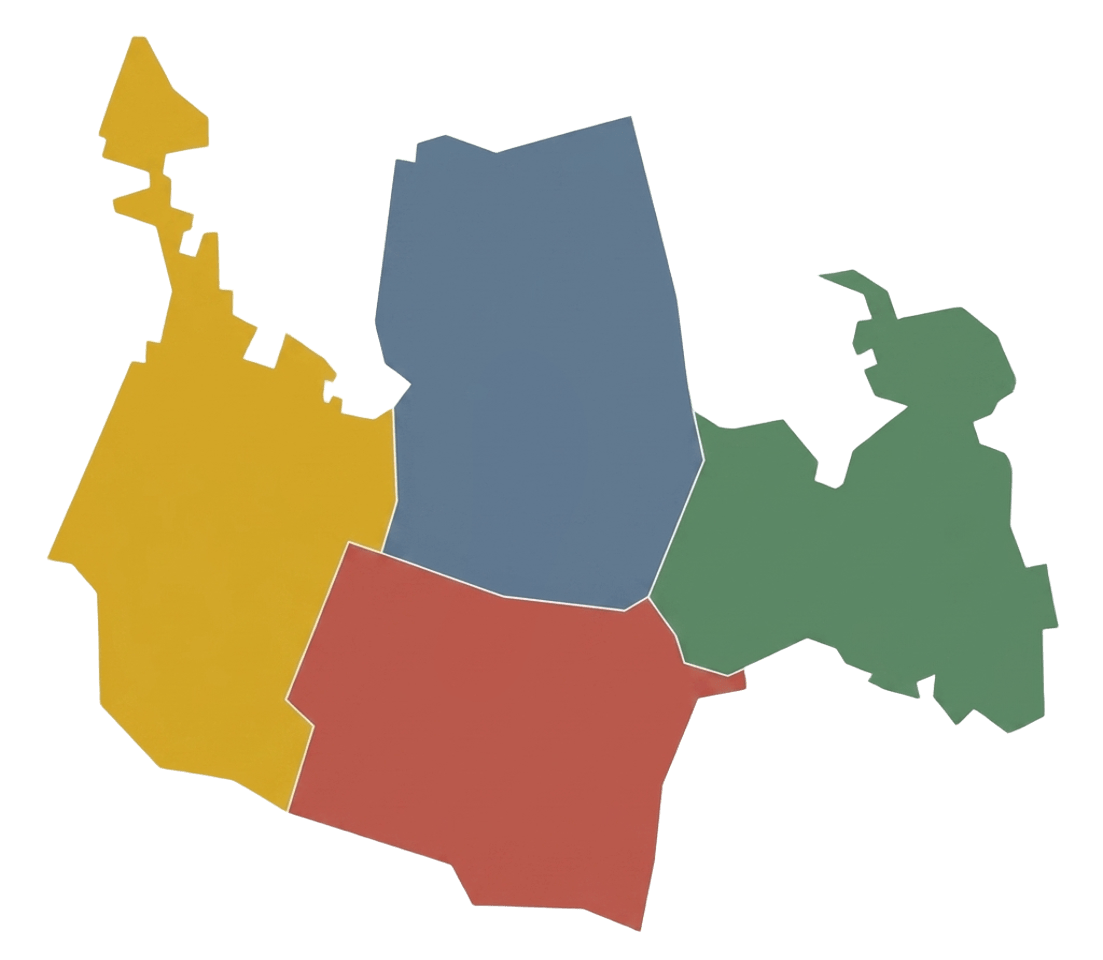
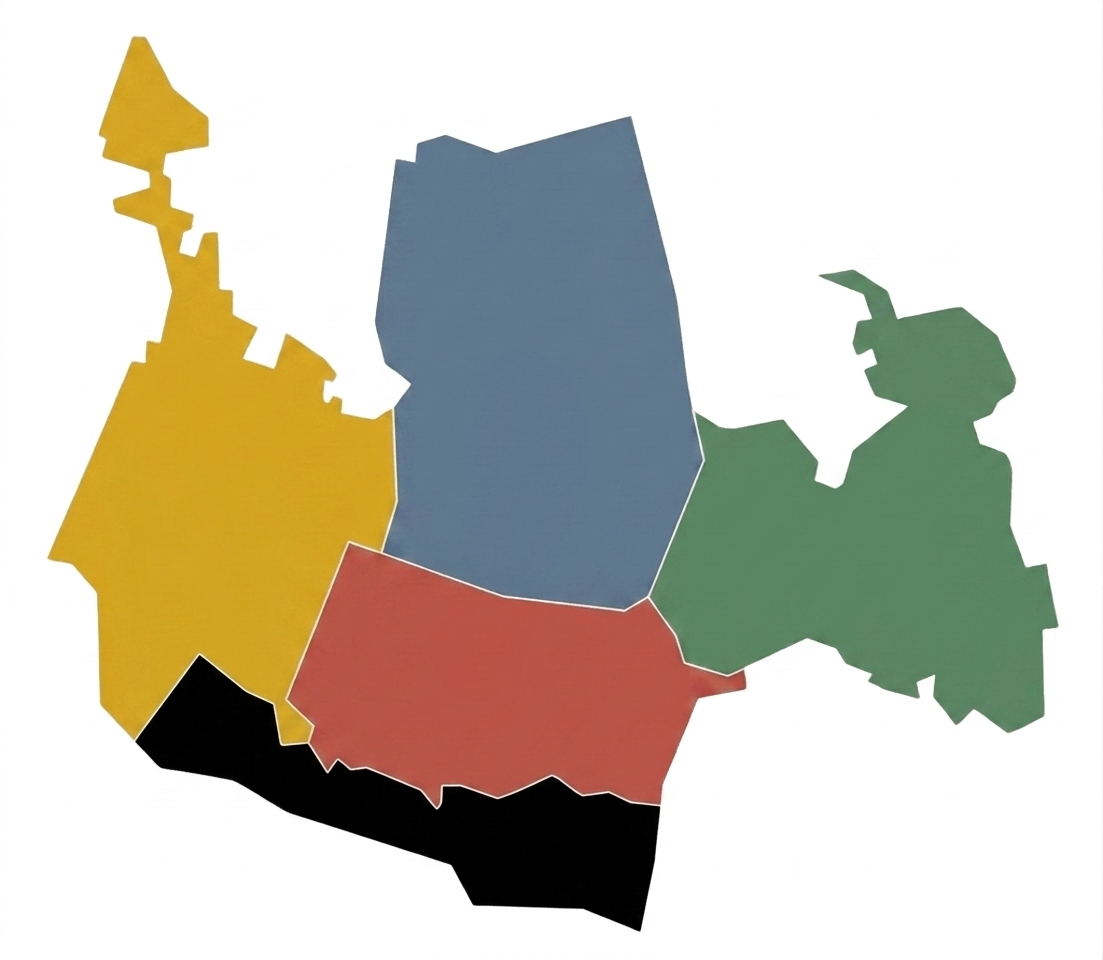
feat(map): 東部を仙川に改め、南部に多摩川エリアを切り出す (#52)
エリア図（public/img/chofu_map.png）を5色に塗り分けたものへ差し替え、
輪郭をそこから取り直した。path を手で継ぎ足すのをやめ、元絵 → trace-areas.py
→ seal-arms.mjs という一本道にしてある。

- `sengawa` つつじヶ丘・仙川（旧・東部の tamagawa）。形は据え置き、
  スポットは実篤公園・武者小路実篤記念館
- `tamagawa` 多摩川。chofu と airport の南側を切り出した市域南端の細長い一本道。
  スポットは郷土博物館のまま（多摩川流域にあるので id ごと引き継げる）
- `chofu` / `airport` は南部を落とした形へ。size は据え置き（プレイ面積は
  path の面積ではなく size² で決まるので、区割りを変えても広さは変わらない）

細長い多摩川で効いた副作用をふたつ潰した:
- ロケ地名が重心の 22px 上に出ると隣のエリアへはみ出すので、
  ずらした先が輪郭の外なら重心へ戻す（geo.js の insidePath を追加）
- 棄却サンプリングの前提「外接矩形の 47〜83%」が 33% まで下がるので注記を更新

テストは全マップに広げた。5エリアの並び・南北関係、重心を走査線で独立に検算、
全マップで 14 匹＋餌を回して壁の外へ出ないこと。

Changed region(s): [[0.1233, 0.6875, 0.6165, 0.9688]]

diff --git a/src/data.js b/src/data.js
@@ -102,13 +102,16 @@ export const SHARKS = [
 ];
 
 // path — ロケ地選択画面のクリック領域であり、ゲーム中のプレイエリアの外周そのもの。
-// viewBox は 0 0 1103 960 で、public/img/chofu_map.png（元の手描きエリア図。表示には使わず
-// 原本として置いてある）を色ごとに輪郭抽出し、`scripts/seal-arms.mjs` で
-// 細すぎる腕（サメが通れない幅の突起）を落としたもの。原本の path はそのスクリプト内にある。
-// 描き直すときは元絵を差し替えて輪郭を取り直し、同じスクリプトを通す。
+// viewBox は 0 0 1103 960 で、public/img/chofu_map.png（5エリアを色で塗り分けたエリア図。
+// 表示には使わず原本として置いてある）を `scripts/trace-areas.py` で色ごとに輪郭抽出し、
+// `scripts/seal-arms.mjs` で細すぎる腕（サメが通れない幅の突起）を落としたもの。
+// 抽出したままの path は seal-arms.mjs の ORIGINAL にある。
+// 描き直すときは元絵を差し替えて、この2本を順に通す。
 //
 // size は「一辺」ではなく実効プレイ面積の平方根。ゲーム側が path の面積が size² になるよう
-// 拡大するので、形を差し替えても遊べる広さは変わらない。label は名前を置く位置(%)。
+// 拡大するので、形を差し替えても遊べる広さは変わらない —— #52 で南部を切り出しても
+// 調布駅・布田と調布飛行場の size を据え置いてあるのはそのため。
+// label は名前を置く位置(%)。今は重心（geo.js）から求めているので参照されていない。
 //
 // spot — そのエリアを解放する現地スポット（未解放のエリアだけが持つ意味を持つ）。
 // 実在の座標・解説文は UPoC_Samether.io/data/stages.master.json から。解放済みの調布にも
@@ -125,8 +128,8 @@ export const MAPS = [
     name: '調布駅・布田',
     en: 'CHOFU STATION',
     unlocked: true,
-    label: { x: 48, y: 76 },
-    path: 'M352 545l33 7,118 45,108 12,15 0,13 -7,15 2,22 29,9 28,40 15,0 18,-27 9,-33 81,-8 81,-13 61,-16 3,-42 -18,-107 -2,-11 -7,-20 -37,-157 -50,-1 -14,22 -76,-22 -20,-2 -13,53 -136,9 -9z',
+    label: { x: 45, y: 71 },
+    path: 'M354 547l154 53,109 13,25 -9,10 2,20 25,11 32,31 11,4 7,-4 13,-20 7,-35 96,-24 4,-24 -11,-29 1,-30 -18,-47 20,-48 -11,-15 0,-4 8,-11 1,-57 -25,-49 -8,-9 -14,5 -17,-22 -22,-2 -17,54 -137,5 -2z',
     color: '#c0544c',
     size: 4200,
     water: '#2a7b7c',
@@ -150,8 +153,8 @@ export const MAPS = [
     name: '深大寺',
     en: 'JINDAIJI',
     unlocked: false,
-    label: { x: 49, y: 42 },
-    path: 'M620 117l15 3,31 122,15 64,15 129,7 11,-5 33,-50 118,-26 11,-116 -10,-101 -35,-14 -9,-4 -7,0 -18,9 -17,2 -22,-4 -83,13 -24,-26 -24,-7 -27,0 -28,20 -141,17 -4,9 -18,20 -8,50 17,13 0,116 -31z',
+    label: { x: 49, y: 38 },
+    path: 'M617 120l14 6,6 29,9 21,31 134,15 121,9 22,-5 26,-46 112,-24 15,-125 -11,-105 -39,-7 -11,13 -42,-6 -94,17 -24,-26 -22,-9 -33,18 -160,17 -7,11 -21,16 -5,59 18,116 -33z',
     color: '#6c88ad',
     size: 4600,
     water: '#26696f',
@@ -175,12 +178,12 @@ export const MAPS = [
     name: '多摩川',
     en: 'TAMAGAWA',
     unlocked: false,
-    label: { x: 84, y: 59 },
-    path: 'M872 282l9 2,10 9,9 24,46 -11,20 2,35 31,13 28,2 24,-41 35,8 18,20 5,7 10,2 70,13 33,4 3,18 0,5 15,6 42,-4 8,-11 3,0 85,-31 16,-9 -1,-26 -21,-22 10,-22 -23,-2 -20,-11 4,-4 13,-20 0,-20 -8,-7 -14,-22 -8,-15 -18,-20 -7,-70 31,-22 4,-39 -17,-9 -29,-22 -30,0 -18,9 -9,44 -112,-5 -23,3 -14,37 3,33 -9,15 2,31 37,-2 22,22 7,6 -3,7 -32,54 -42,-34 -17,-5 -20,9 -14,-4 -6,-14 0,-4 -7,2 -21,15 -7,-6 -26,7 -7z',
-    color: '#4e8a5f',
-    size: 5000,
+    label: { x: 38, y: 84 },
+    path: 'M198 661l9 0,35 31,29 17,6 33,5 5,24 -2,22 30,7 -9,8 0,7 7,20 -2,17 6,31 14,17 19,11 -9,3 -11,17 0,35 11,42 -21,15 0,24 19,29 -4,19 9,24 2,3 4,-2 35,-14 77,-15 4,-42 -19,-109 -3,-29 -43,-155 -48,-57 -34,-71 -11,-22 -23,0 -7,55 -75z',
+    color: '#8e6ba8',
+    size: 4400,
     water: '#2f7f86',
-    blurb: '広い河川敷と速い流れ。マップ最大、そして最速。',
+    blurb: '市域の南端をなぞる細長い流れ。逃げ場が横にない、マップ最長の一本道。',
     lore:
       '多摩川の河川敷は調布市花火大会の舞台。市名「調布」は、' +
       'この流域で織られた布を朝廷へ「調」として納めたことに由来すると伝わる。',
@@ -201,8 +204,8 @@ export const MAPS = [
     name: '調布飛行場',
     en: 'AIRFIELD',
     unlocked: false,
-    label: { x: 20, y: 52 },
-    path: 'M205 238l15 4,2 44,11 5,1 21,19 12,2 15,-8 15,2 5,24 8,9 -26,20 0,28 22,-2 35,13 2,6 13,38 2,9 9,4 81,-13 42,-15 4,-22 -6,-60 151,0 5,24 26,0 13,-21 64,-14 4,-43 -26,-69 -11,-15 -11,-52 -59,-3 -108,-24 -28,-15 -2,-5 -9,5 -24,72 -167,13 -4,5 -16,15 -8,9 -40,-5 -22,1 -18,8 -4,20 4,4 -13,5 -2z',
+    label: { x: 20, y: 53 },
+    path: 'M205 251l11 7,2 30,9 5,4 20,20 15,2 7,-11 21,3 5,28 8,11 -24,15 -2,27 22,2 7,-7 26,7 7,17 11,40 4,7 11,2 75,-11 35,-11 8,-20 -9,-5 3,-61 153,-13 5,-26 -11,-48 -38,-57 75,-9 4,-9 -4,-20 -20,-4 -9,-2 -105,-25 -30,-15 -5,-4 -9,76 -182,14 -4,8 -16,13 -10,7 -35,-4 -27,4 -17,9 -3,13 3,9 -5z',
     color: '#d8a72c',
     size: 4400,
     water: '#2b7280',
@@ -218,6 +221,31 @@ export const MAPS = [
       angle: 'モニュメント正面から、全体が入るように',
       desc: '調布の「いま」を象徴するスタジアム。旧甲州街道の宿場・上石原宿から続く歴史と、' +
         '旧陸軍飛行場の跡地がこの一帯で重なっている。',
+      hashes: [], threshold: 14,
+    },
+  },
+  {
+    id: 'sengawa',
+    name: 'つつじヶ丘・仙川',
+    en: 'TSUTSUJIGAOKA / SENGAWA',
+    unlocked: false,
+    label: { x: 79, y: 56 },
+    path: 'M883 302l10 6,5 13,53 -11,15 2,33 29,13 29,0 19,-24 26,-13 3,-3 11,7 17,27 13,2 68,15 40,18 2,8 17,5 31,-13 13,0 82,-27 17,-11 -2,-28 -20,-18 11,-19 -15,-3 -29,-17 5,-7 11,-18 0,-13 -5,-10 -15,-20 -5,-16 -21,-22 -7,-15 2,-50 26,-27 7,-35 -17,-8 -24,-22 -29,2 -22,50 -118,-4 -24,6 -9,31 2,37 -9,9 2,26 31,3 9,-2 15,24 11,10 -9,7 -28,53 -46,-33 -16,-5 -15,9 -11,-2 -13,-6 -5,-9 0,-5 -10,2 -11,12 -5,4 -13,7 -4z',
+    color: '#4e8a5f',
+    size: 5000,
+    water: '#285868',
+    blurb: '坂の多い学園の街。カフェの灯りと湧水が混ざる、東のいちばん広い海。',
+    lore:
+      '調布市の東端、つつじヶ丘・仙川は白百合女子大学や桐朋学園が集まる学園の街。' +
+      '武者小路実篤は1955年から没するまでの20年余りをこの地で過ごし、旧邸と湧水の庭が実篤公園として残る。',
+    spot: {
+      id: 'spot_saneatsu-park',
+      name: '実篤公園・武者小路実篤記念館',
+      lat: 35.660142, lon: 139.578644, radius: 150,
+      points: 100, share: 100,
+      angle: '旧実篤邸の正面から、建物全体が入るように',
+      desc: '『白樺』の作家・武者小路実篤が1955年から没するまでを過ごした邸宅と庭園。' +
+        '武蔵野の湧水を湛えた池と雑木林が、書斎からの眺めのまま保存されている。',
       hashes: [], threshold: 14,
     },
   },
@@ -238,6 +266,8 @@ export const TIPS = [
   '武蔵野の森公園には、旧陸軍調布飛行場の掩体壕（戦闘機を守る格納庫）が保存されている。',
   '調布市花火大会は多摩川の河川敷が舞台。夏の風物詩として親しまれている。',
   '深大寺の「白鳳仏」は国宝の釈迦如来倚像。飛鳥時代後期の作とされる。',
+  '『白樺』の作家・武者小路実篤は1955年から没するまでを仙川の地で過ごした。旧邸と庭は実篤公園として残る。',
+  '京王線つつじヶ丘駅は1957年までは「金子駅」。周辺の住宅地開発に合わせて今の名になった。',
 ];
 
 export const BOT_NAMES = [

diff --git a/src/main.js b/src/main.js
@@ -1,7 +1,7 @@
 import { SHARKS, MAPS, TIPS } from './data.js';
 import { startGame } from './game.js';
 import { connect } from './net.js';
-import { centroidOfPath } from './geo.js';
+import { centroidOfPath, insidePath } from './geo.js';
 import { paintShark, paintSpriteShark, bodyLength, swimBody, preloadSharks } from './shark-art.js';
 import { save, persist, isUnlocked } from './progress.js';
 
@@ -161,13 +161,16 @@ function dimmed(hex) {
 // 小さい画面で名前を消して鍵だけ残すと中心から外れて見えるため。
 // 名前が消える画面では鍵を重心そのものへ寄せる
 const LABEL_DY = -22, LOCK_DY = 26;
+// ただし多摩川のような細長いエリアでは、重心の 22px 上がもう隣のエリアの中になる。
+// ずらした先が輪郭の外なら重心そのものへ戻す（名前や鍵が他所の海に浮かないように）
+const offsetIn = (m, cen, dy) => (insidePath(m.path, cen.x, cen.y + dy) ? dy : 0);
 // 条件は style.css の .map-label を消すブロックと一字一句そろえること
 const compactMap = matchMedia('(max-height: 500px)');
 
 /** 鍵の高さを決める。名前が出ているときはその下、消えているときは重心の上 */
 function placeLocks() {
   $$('.map-lock').forEach((lk) => {
-    lk.setAttribute('y', +lk.dataset.cy + (compactMap.matches ? 0 : LOCK_DY));
+    lk.setAttribute('y', +lk.dataset.cy + (compactMap.matches ? 0 : +lk.dataset.dy));
   });
 }
 compactMap.addEventListener('change', placeLocks);
@@ -191,7 +194,7 @@ function renderMaps() {
 
     const t = svgEl('text', {
       class: 'map-label' + (open ? '' : ' locked'),
-      x: cen.x, y: cen.y + LABEL_DY,
+      x: cen.x, y: cen.y + offsetIn(m, cen, LABEL_DY),
     });
     t.textContent = m.name;
     labels.appendChild(t);
@@ -200,6 +203,7 @@ function renderMaps() {
     if (!open) {
       const lock = svgEl('text', { class: 'map-lock', x: cen.x });
       lock.dataset.cy = cen.y;      // y は placeLocks が画面に合わせて決める
+      lock.dataset.dy = offsetIn(m, cen, LOCK_DY);
       lock.textContent = 'lock';
       labels.appendChild(lock);
     }

diff --git a/src/geo.js b/src/geo.js
@@ -21,6 +21,21 @@ export function parseAreaPath(d) {
 }
 
 /**
+ * 点がエリアの内側か（ray casting / even-odd）。
+ * sim.js にも同じ判定があるが、あちらは size² へ拡大したあとのワールド座標が相手で、
+ * こちらは viewBox 座標のまま。輪郭は自己交差の無い単純多角形（sim.test.mjs が検査）。
+ */
+export function insidePath(d, x, y) {
+  const pts = parseAreaPath(d);
+  let c = false;
+  for (let i = 0, j = pts.length - 1; i < pts.length; j = i++) {
+    const [xi, yi] = pts[i], [xj, yj] = pts[j];
+    if ((yi > y) !== (yj > y) && x < ((xj - xi) * (y - yi)) / (yj - yi) + xi) c = !c;
+  }
+  return c;
+}
+
+/**
  * 多角形の面積加重重心。
  * 面積が 0（＝一直線に潰れた輪郭）のときだけ頂点の平均へ逃がす。
  */

diff --git a/src/sim.js b/src/sim.js
@@ -114,7 +114,8 @@ export function makeArena(map) {
     return { x: (bb.x0 + bb.x1) / 2, y: (bb.y0 + bb.y1) / 2 };
   })();
 
-  // 外接矩形の 47〜83% しか中身がないので、湧かせる座標は棄却サンプリングで取る
+  // 外接矩形の 33〜80% しか中身がない（いちばん薄いのは細長い多摩川）ので、
+  // 湧かせる座標は棄却サンプリングで取る
   const spot = () => {
     for (let i = 0; i < 60; i++) {
       const x = rand(bb.x0, bb.x1), y = rand(bb.y0, bb.y1);

diff --git a/scripts/trace-areas.py b/scripts/trace-areas.py
@@ -1,0 +1,174 @@
+#!/usr/bin/env python3
+"""エリア図（色分け PNG）から各エリアの輪郭を取り、path 文字列にする。
+
+    python3 scripts/trace-areas.py
+
+出したものは `scripts/seal-arms.mjs` の ORIGINAL に貼る。そこで細い腕を落としてから
+data.js の path になる ——「元絵を差し替えて輪郭を取り直し、同じスクリプトを通す」の
+前半がこれ。出力形式は seal-arms.mjs と同じ "M x yl dx dy,...z"。
+
+手順は 色で分類 → 収縮で境界のアンチエイリアスを切る → 最大の塊だけ残す → 膨張で戻す
+→ 穴を埋める → Moore 近傍で外周を1本たどる → Douglas-Peucker で間引き。
+色は元絵の実測値。塗り足しやアンチエイリアスがあるので厳密一致ではなく最近傍で拾う。
+"""
+from PIL import Image, ImageDraw, ImageFilter
+
+SRC = 'public/img/chofu_map.png'
+VIEW_W = 1103                  # index.html の viewBox と揃っていること
+# data.js の MAPS[].id → 元絵の塗り色
+PALETTE = {
+    'chofu':    (185, 84, 72),
+    'jindaiji': (95, 120, 142),
+    'tamagawa': (0, 0, 0),
+    'airport':  (211, 164, 32),
+    'sengawa':  (89, 133, 98),
+}
+BG = (255, 255, 255)           # 余白。エリアの外はここへ落ちる
+CLEAN = 5                      # 収縮/膨張のカーネル辺長(px)。境界の橋を切る幅
+SIMPLIFY = 1.6                 # 輪郭の間引き許容誤差(px)。seal-arms.mjs と同じ値
+
+
+def classify(img):
+    """各画素を最近傍の PALETTE 色へ。返すのは id → 二値 Image('1')"""
+    refs = list(PALETTE.values()) + [BG]
+    lut = {}
+    raw = img.tobytes()
+    px = [tuple(raw[i:i + 3]) for i in range(0, len(raw), 3)]
+    out = {k: Image.new('L', img.size, 0) for k in PALETTE}
+    buf = {k: bytearray(len(px)) for k in PALETTE}
+    for i, c in enumerate(px):
+        j = lut.get(c)
+        if j is None:
+            j = min(range(len(refs)), key=lambda k: sum(
+                (c[t] - refs[k][t]) ** 2 for t in range(3)))
+            lut[c] = j
+        if j < len(PALETTE):
+            buf[list(PALETTE)[j]][i] = 255
+    for k in PALETTE:
+        out[k].frombytes(bytes(buf[k]))
+    return out
+
+
+def erode(m, n=1):
+    for _ in range(n):
+        m = m.filter(ImageFilter.MinFilter(3))
+    return m
+
+
+def dilate(m, n=1):
+    for _ in range(n):
+        m = m.filter(ImageFilter.MaxFilter(3))
+    return m
+
+
+def deepest(m):
+    """一番奥まった画素。収縮しきる直前まで残るのは最大の塊なので、その種を返す"""
+    prev = m
+    while True:
+        nxt = erode(prev)
+        if not nxt.getbbox():
+            g = prev.load()
+            x0, y0, x1, y1 = prev.getbbox()
+            return next(((x, y) for y in range(y0, y1) for x in range(x0, x1) if g[x, y]),
+                        None)
+        prev = nxt
+
+
+def largest(m):
+    """最大の連結成分だけ残す（収縮でちぎれた小片を捨てる）"""
+    seed = deepest(m)
+    if seed is None:
+        raise SystemExit('塗りが見つからない。PALETTE の色が元絵と合っていない')
+    flood = m.convert('L')
+    ImageDraw.floodfill(flood, seed, 128)
+    return flood.point(lambda v: 255 if v == 128 else 0)
+
+
+def fill_holes(m):
+    """外側から塗って、届かなかった空白を穴として埋める"""
+    inv = m.point(lambda v: 0 if v else 255)
+    pad = Image.new('L', (m.width + 2, m.height + 2), 255)
+    pad.paste(inv, (1, 1))
+    ImageDraw.floodfill(pad, (0, 0), 128)
+    outside = pad.crop((1, 1, m.width + 1, m.height + 1))
+    return outside.point(lambda v: 0 if v == 128 else 255)
+
+
+# 8近傍を反時計回りに（seal-arms.mjs の trace と同じ並び）
+N8 = [(1, 0), (1, 1), (0, 1), (-1, 1), (-1, 0), (-1, -1), (0, -1), (1, -1)]
+
+
+def trace(m):
+    """Moore 近傍で外周を1本たどる。返すのは画素座標の閉路"""
+    w, h = m.size
+    g = m.load()
+    at = lambda x, y: 0 <= x < w and 0 <= y < h and g[x, y]
+    sx, sy = next((x, y) for y in range(h) for x in range(w) if g[x, y])
+    out = [(sx, sy)]
+    cx, cy, d = sx, sy, 0
+    for _ in range(w * h * 8):
+        for k in range(8):
+            nd = (d + 6 + k) % 8            # 前回来た方向の右手から探す
+            nx, ny = cx + N8[nd][0], cy + N8[nd][1]
+            if at(nx, ny):
+                cx, cy, d = nx, ny, nd
+                break
+        else:
+            break
+        if (cx, cy) == (sx, sy):
+            break
+        out.append((cx, cy))
+    return out
+
+
+def simplify(pts, eps):
+    """Douglas-Peucker"""
+    if len(pts) < 3:
+        return pts
+    keep = [False] * len(pts)
+    keep[0] = keep[-1] = True
+    stack = [(0, len(pts) - 1)]
+    while stack:
+        a, b = stack.pop()
+        ax, ay = pts[a]
+        bx, by = pts[b]
+        dx, dy = bx - ax, by - ay
+        ln = (dx * dx + dy * dy) ** 0.5 or 1
+        far, fd = -1, eps
+        for i in range(a + 1, b):
+            d = abs((pts[i][0] - ax) * dy - (pts[i][1] - ay) * dx) / ln
+            if d > fd:
+                fd, far = d, i
+        if far > 0:
+            keep[far] = True
+            stack += [(a, far), (far, b)]
+    return [p for p, k in zip(pts, keep) if k]
+
+
+def emit(pts):
+    r = lambda v: int(round(v))
+    seg = [f'{r(pts[i][0]) - r(pts[i - 1][0])} {r(pts[i][1]) - r(pts[i - 1][1])}'
+           for i in range(1, len(pts))]
+    return f'M{r(pts[0][0])} {r(pts[0][1])}l' + ','.join(seg) + 'z'
+
+
+def area(pts):
+    a = 0
+    for i, (x0, y0) in enumerate(pts):
+        x1, y1 = pts[(i + 1) % len(pts)]
+        a += x0 * y1 - x1 * y0
+    return abs(a) / 2
+
+
+img = Image.open(SRC).convert('RGB')
+if img.width != VIEW_W:
+    raise SystemExit(f'元絵の幅が viewBox と違う: {img.width} != {VIEW_W}')
+
+masks = classify(img)
+for name in PALETTE:
+    m = fill_holes(dilate(largest(erode(masks[name], CLEAN // 2)), CLEAN // 2))
+    ring = simplify(trace(m), SIMPLIFY)
+    pts = [(x + 0.5, y + 0.5) for x, y in ring]
+    print(f'// {name}  塗り{m.histogram()[255]}px  '
+          f'輪郭の面積{round(area(pts))}  頂点{len(pts)}')
+    print(f"  {name}: {{ size: ????, d: '{emit(pts)}' }},")

diff --git a/README.md b/README.md
@@ -49,8 +49,9 @@ GitHub Actions の `CI / Test and build (Node.js 24.18.0)` は push と pull req
 | `src/net.js` | 対戦サーバとの線。JSON を投げて受けるだけ |
 | `server/index.mjs` | 対戦の権威サーバ。部屋ごとに `sim.js` の world を 30Hz で回し、15Hz で配る |
 | `src/style.css` | デザイントークン（Retro Pop Cinema）と共通クラス |
-| `public/img/` | アセット画像（サメスプライト等）。エリアマップは `data.js` の SVG パスに置き換え済みで、`chofu_map.png` は取り直し用の原本 |
+| `public/img/` | アセット画像（サメスプライト等）。エリアマップは `data.js` の SVG パスに置き換え済みで、`chofu_map.png`（5エリアを色で塗り分けた図）は取り直し用の原本 |
 | — | プレイエリアの外周は `data.js` の `path`（実際のエリア輪郭）そのもの。内外判定は `Path2D` + `isPointInPath`。`size` は一辺ではなく**実効面積の平方根**で、ゲーム側が輪郭の面積が `size²` になるよう拡大する |
+| `scripts/trace-areas.py` | 色分けしたエリア図から輪郭を起こす（`python3 scripts/trace-areas.py`）。出力は次の seal-arms へ |
 | `scripts/seal-arms.mjs` | エリア輪郭から細すぎる腕を落とすワンショット道具（`node scripts/seal-arms.mjs --emit`）。原本の path もここ |
 | `scripts/loadtest.mjs` | 人数分ぶら下がって配信レートを測る。判定は「スナップショットが 15Hz 届くか」 |
 | `docs/` | 仕様書・設計ドキュメント（`specifications.md` 等）。デプロイ手順は `deploy-ec2.md` |
